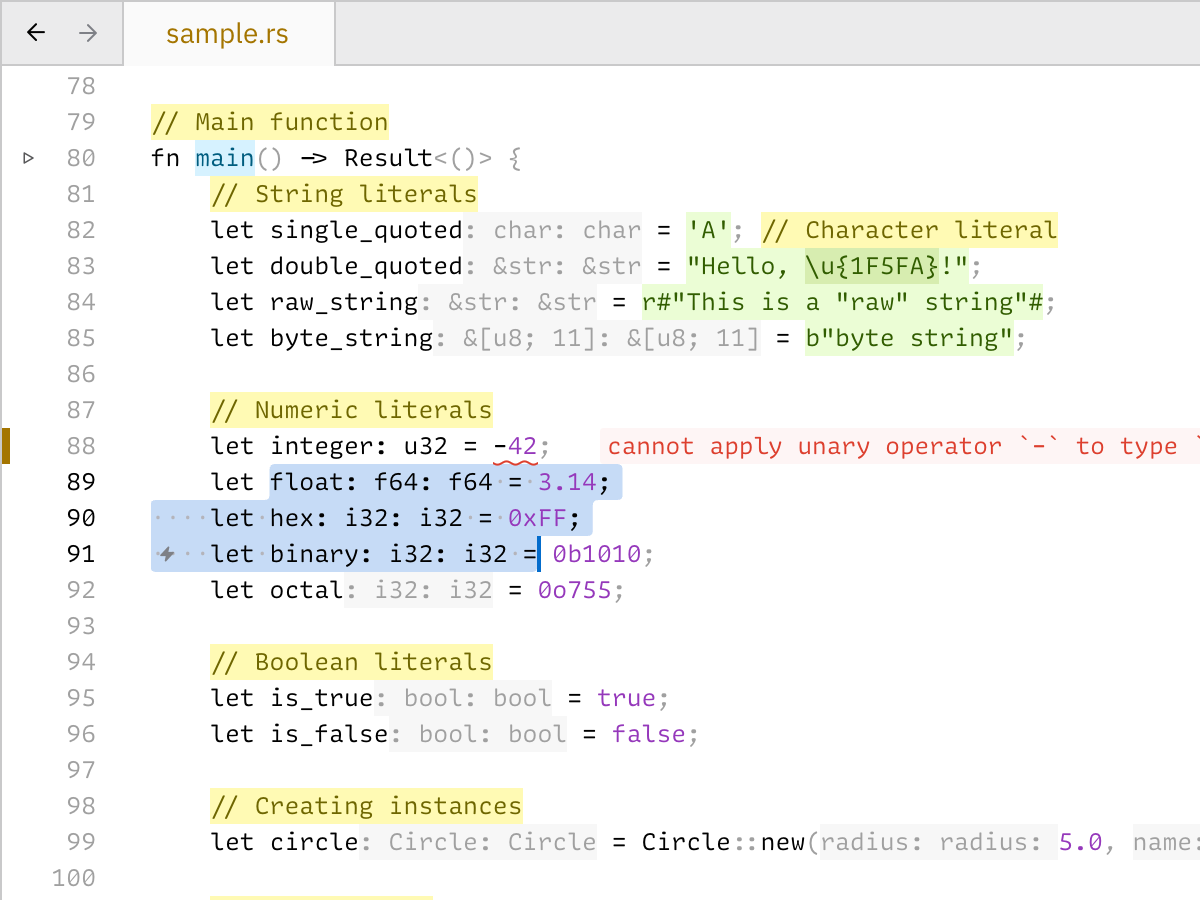
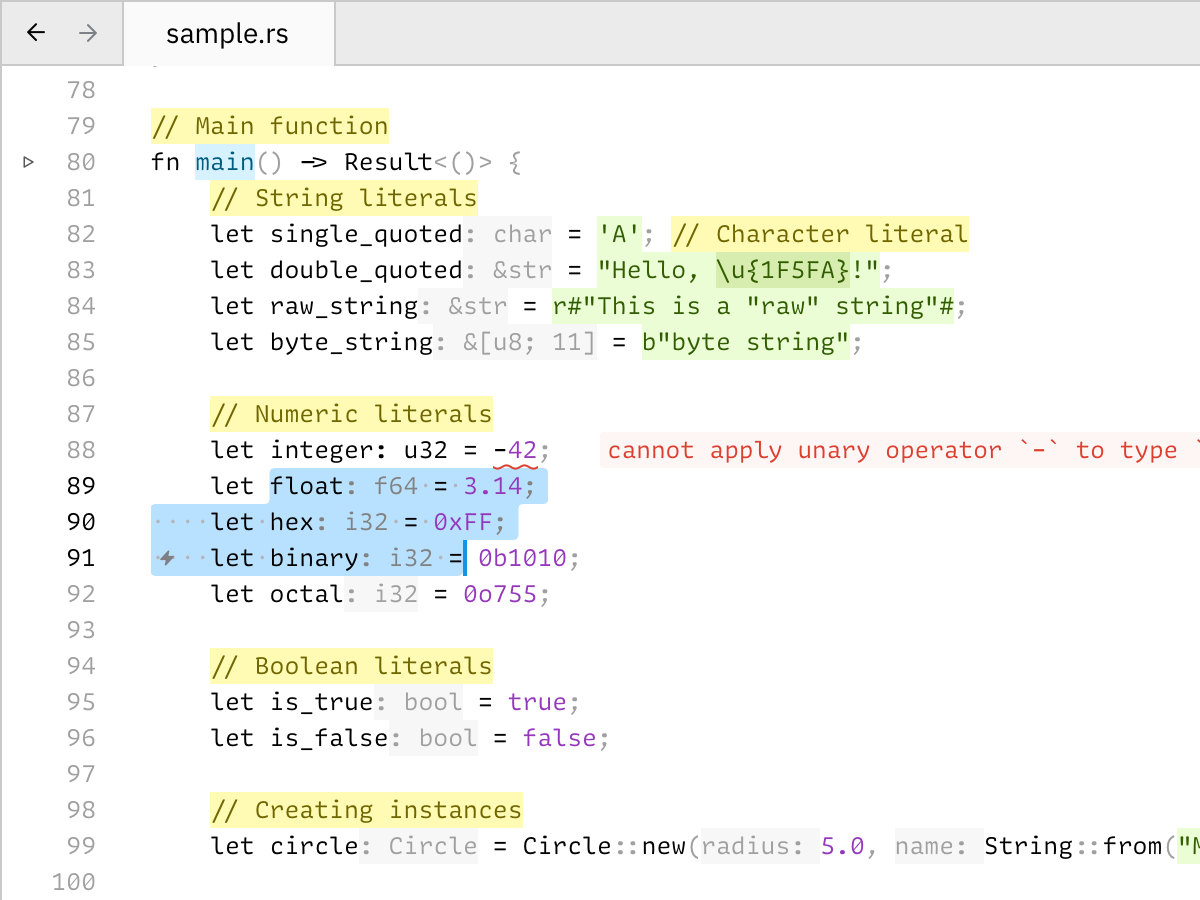
Tuned light selection

diff --git a/src/alabaster_light.css b/src/alabaster_light.css
@@ -27,7 +27,7 @@
   --grey-bg: #00000008;
 
   --blue-fg: #005d7f;
-  --blue-accent: #016ccc;
+  --blue-accent: #1494e4;
   --blue-bg: #d6f2ff;
   
   --red-fg: #dd3f2e;
@@ -202,7 +202,7 @@ style {
 player1 {
   .cursor { color: var(--blue-accent); }
   .background { color: var(--blue-accent); }
-  .selection { color: color-mix(in oklch, var(--blue-accent) 25%, var(--text-bg)); }
+  .selection { color: #b8e1ff; }
 }
 
 player2 {
